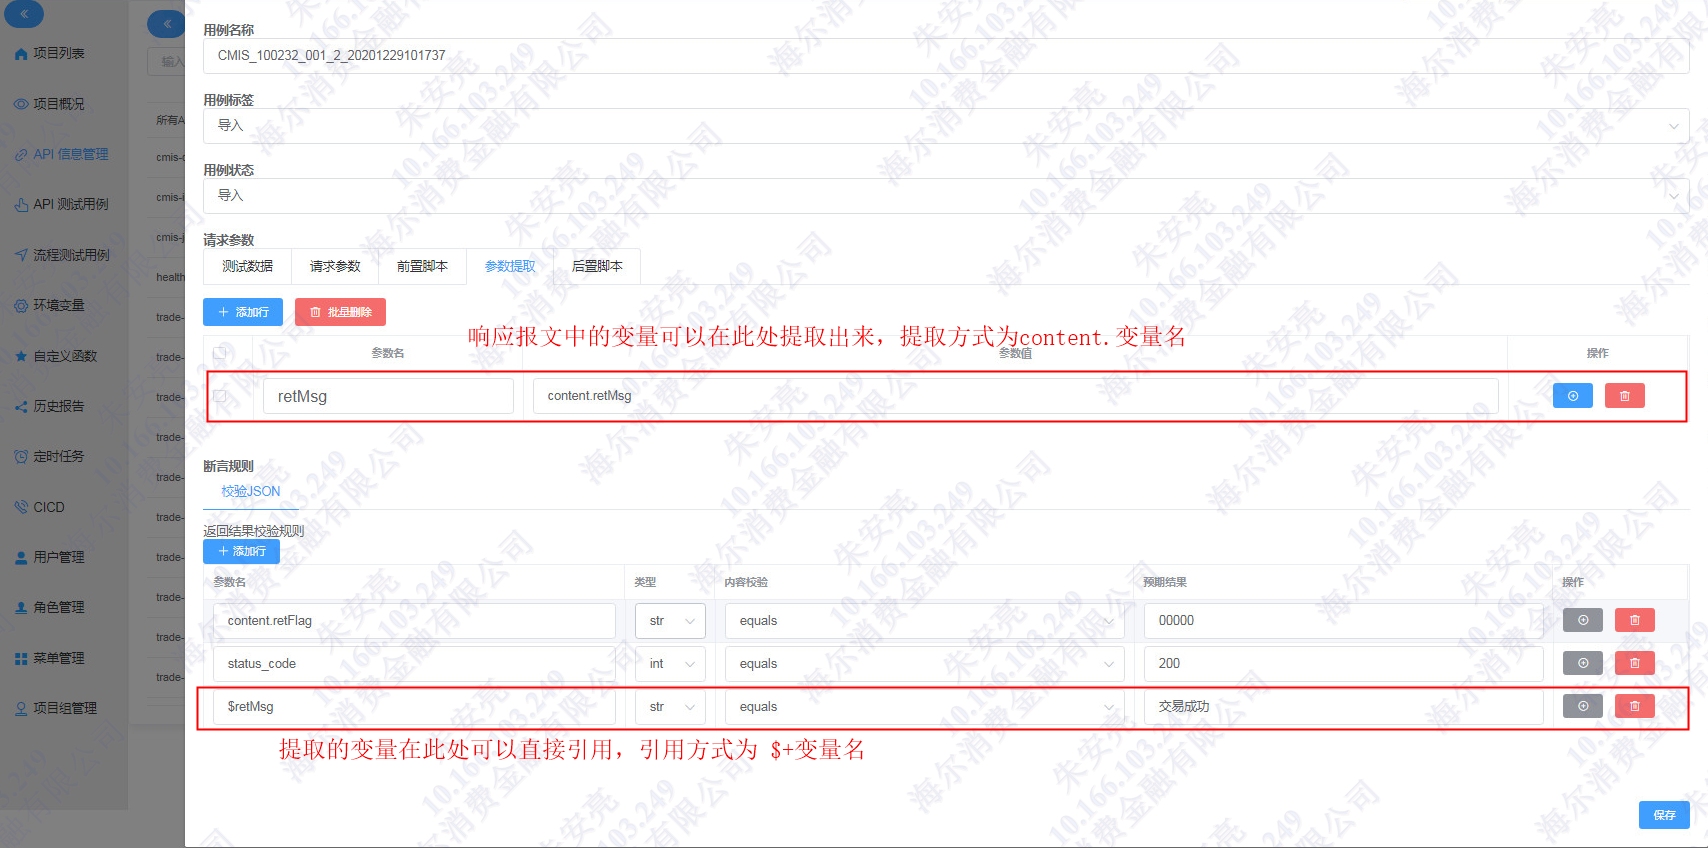
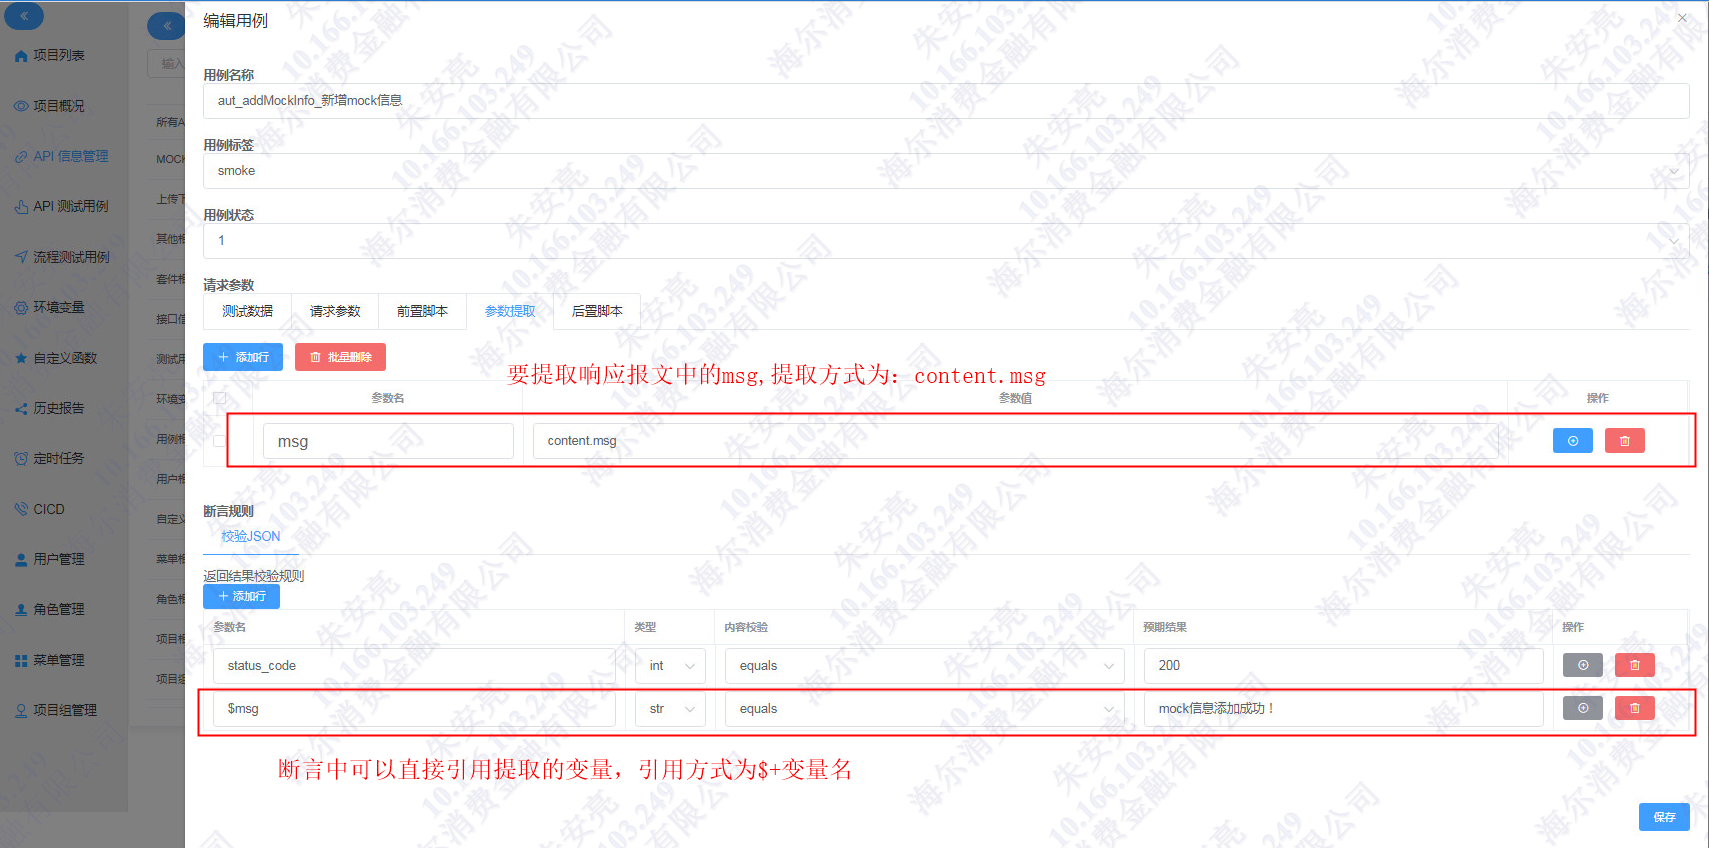
no message

diff --git a/_posts/api-test/2021-04-22-01-extract_optimization.md b/_posts/api-test/2021-04-22-01-extract_optimization.md
@@ -1,0 +1,39 @@
+---
+layout: post
+title:  接口测试-参数提取-优化性能
+no-post-nav: false
+category: api-test
+tags: [api-test]
+excerpt: 接口测试
+
+
+---
+
+
+
+## 接口测试-参数提取-优化性能
+
+
+
+在设计测试用例过程中，经常会遇到这样一个问题：调用接口成功之后返回字段过多。如果想对所有字段都进行校验，每检验一个字段就要查询一次数据库，如果这种用例运行次数过多，就会对测试平台，数据库服务器产生影响。为解决相关问题，我们从参数提取这块讲一讲如何进行性能优化。
+
+以cmis-query-server系统-110300-查询还款方式-根据等额本息查询用例为例：
+
+- 1、110300的接口正常的返回报文如下图所示，大概有三十多个返回字段。
+
+![api_response](https://james-xuande.github.io/images/posts/2021-04-22/api_response.png)
+
+- 2、为了优化性能，我们在参数提取这，执行自定义函数将校验的数据一次性查出，并使用一个变量来接收。
+
+  ![get_row](https://james-xuande.github.io/images/posts/2021-04-22/get_row.png)
+
+- 3、在断言校验中，可以引用参数提取中查询回来的变量，引用方式为 #变量名.校验参数。
+
+  ![validate_](https://james-xuande.github.io/images/posts/2021-04-22/validate_.png)
+
+- 4、通过校验字段直接引用的方式，把30多个事务优化为1个事务，极大的提高了用例执行效率。
+
+
+
+
+

diff --git a/_posts/api-test/2021-04-22-01-extract_call_back.md b/_posts/api-test/2021-04-22-01-extract_call_back.md
@@ -1,0 +1,28 @@
+---
+layout: post
+title:  接口测试-参数提取-回调方式讲解
+no-post-nav: false
+category: api-test
+tags: [api-test]
+excerpt: 接口测试
+
+
+---
+
+
+
+
+## 接口测试-参数提取-回调方式讲解
+
+有一些回调接口的报文，我们直接请求可能拿不到相关的报文，需要将回调报文落到数据库，然后再进行测试，这就涉及到多个数据库之间进行数据的比对，本次以变量中心的 variable_platform_rhzx_测试人行征信回调 用例为例，讲一下参数提取在测试接口回调情况的作用。
+
+- 1、人行征信接口会调用测试平台的mock接口，将回调报文落入的我们的数据库。
+
+  ![call_back_response](https://james-xuande.github.io/images/posts/2021-04-22/call_back_response.png)
+
+- 2、断言两边均支持引用参数提取的变量，引用方式为 #变量名.校验字段。
+
+  ![validate_both](https://james-xuande.github.io/images/posts/2021-04-22/validate_both.png)
+
+
+

diff --git a/_posts/api-test/2021-04-22-01-extract.md b/_posts/api-test/2021-04-22-01-extract.md
@@ -1,0 +1,27 @@
+---
+layout: post
+title:  接口测试-参数提取-简单提取
+no-post-nav: false
+category: api-test
+tags: [api-test]
+excerpt: 接口测试
+
+
+---
+
+
+
+## 接口测试-参数提取
+
+现在想提取返回报文中的msg字段，返回报文如下所示。
+
+![extract_msg](https://james-xuande.github.io/images/posts/2021-04-22/extract_msg.png)
+
+参数提取方法：
+
+![extract_simple](https://james-xuande.github.io/images/posts/2021-04-22/extract_simple.png)
+
+
+
+
+
